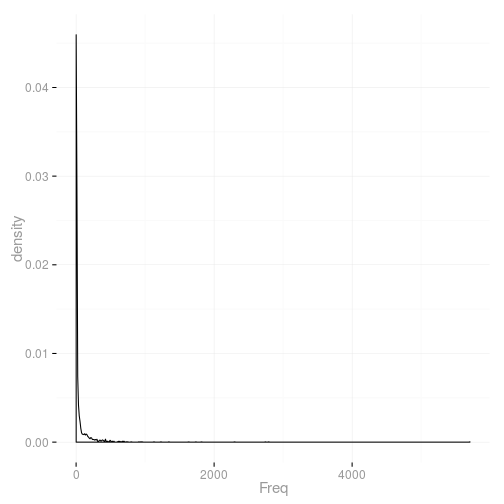
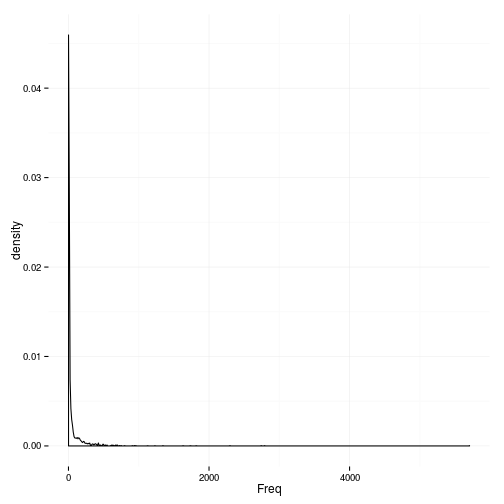
Small updates

diff --git a/lastfm/lastfmAnalysis.md b/lastfm/lastfmAnalysis.md
@@ -12,6 +12,8 @@ I don't want to spend the last years of my life listening to cruddy music.
 
 Anyway, you can now download all your data quite easily.
 So here I will just have a play around and see what is interesting.
+By the way, I am [t3h_m013](www.last.fm/user/t3h_m013) on last.fm.
+This is an old and embaressing nickname... but oh well.
 
 
 Read in the data
@@ -20,10 +22,11 @@ Read in the data
 First some libraries
 
 ```r
-suppressMessages(
-library(ggplot2))
+library(ggplot2)
 library(magrittr)
 library(dplyr)
+
+theme_set(theme_minimal())
 ```
 
 Then read in the data.
@@ -90,9 +93,34 @@ So let's look at some basic overview stuff.
 
 
 ```r
-#artistCounts <- table(d$
+artistCounts <- data.frame(table(d$artist.name))
+names(artistCounts)[1] <- 'Arists'
+
+artistCounts[order(artistCounts$Freq, decreasing = TRUE), ] %>% head
 ```
 
+```
+##                  Arists Freq
+## 1926       Van Morrison 5707
+## 675        Frank Turner 2789
+## 1356          Radiohead 2743
+## 1651        The Beatles 2296
+## 365  Coheed and Cambria 1819
+## 1496          Sigur Rós 1734
+```
 
+```r
+ggplot(artistCounts, aes(x = Freq)) + 
+  geom_density()
+```
+
+![plot of chunk someBasics](figure/someBasics.png) 
+
+Ok, the top artists match.
+
+![screenshot](figure/topArtistsScreen.png)
+
+
+And as expected, there's a few artists with loads of listen, and lots of artists with very few listens.
 
 
